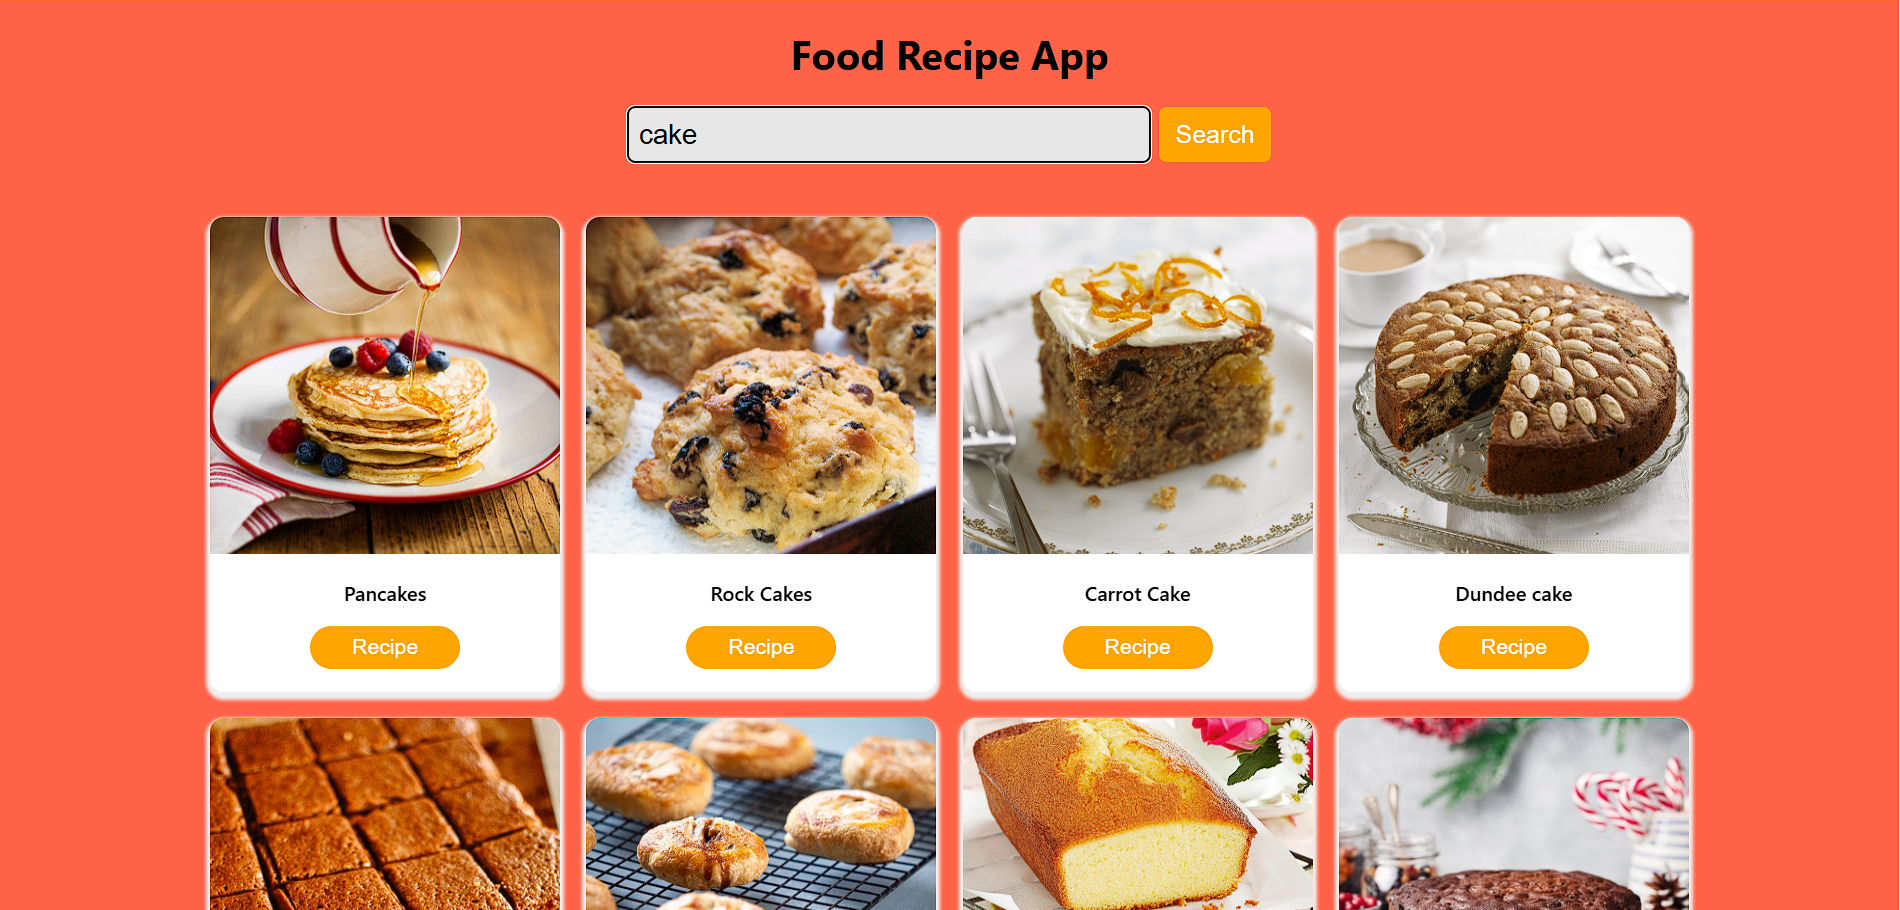
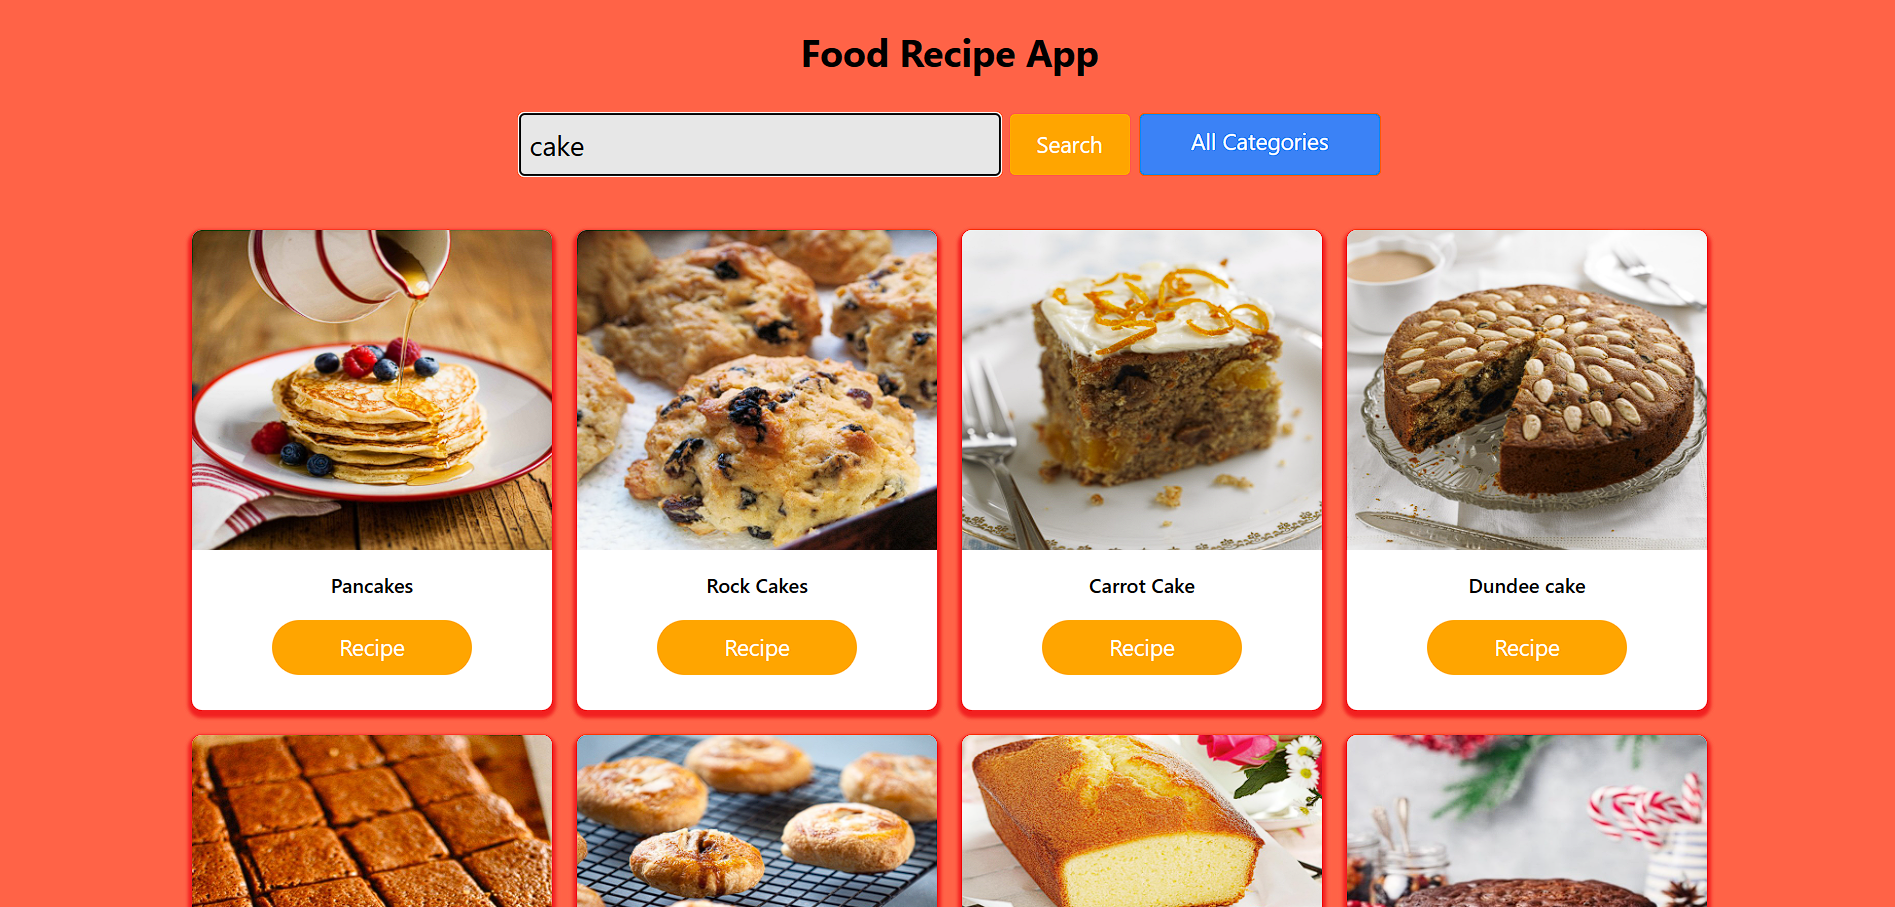
updated readme

diff --git a/README.md b/README.md
@@ -1,8 +1,10 @@
 # Food Recipe App
 
-![Screenshot 1](src/assets/Homepage.png)
-![Screenshot 2](src/assets/Recipe-Detail.png)
-
+<img src="src/assets/Homepage.png" alt="Screenshot 1" />
+<div style="display: flex; justify-content: space-between;">
+  <img src="src/assets/Recipe-Detail.png" alt="Screenshot 2" style="width: 49.5%;"/>
+  <img src="src/assets/All-category.png" alt="Screenshot 3" style="width: 49.5%;"/>
+</div>
 ## Description
 
 The Food Recipe App is a React-based application that allows users to search for various recipes. Users can enter a dish name (such as... cake, veg, egg, chilli, etc.) to find recipes and view detailed instructions for each meal.
@@ -35,7 +37,7 @@ To get a local copy up and running, follow these steps:
 2. Install the dependencies:
 
    ```bash
-   npm install
+   npm i
 
    ```
 
